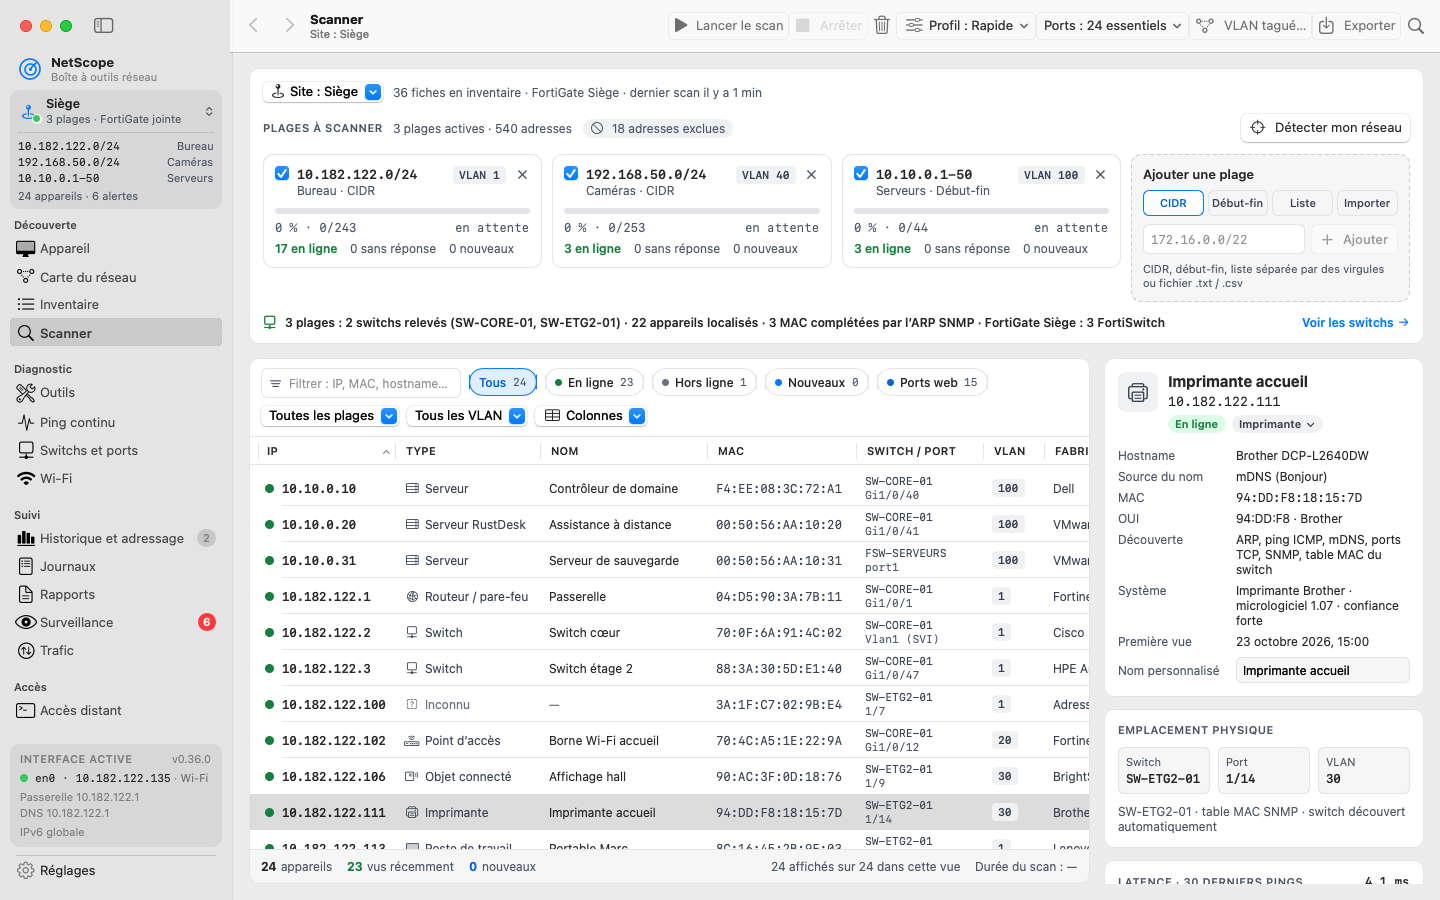
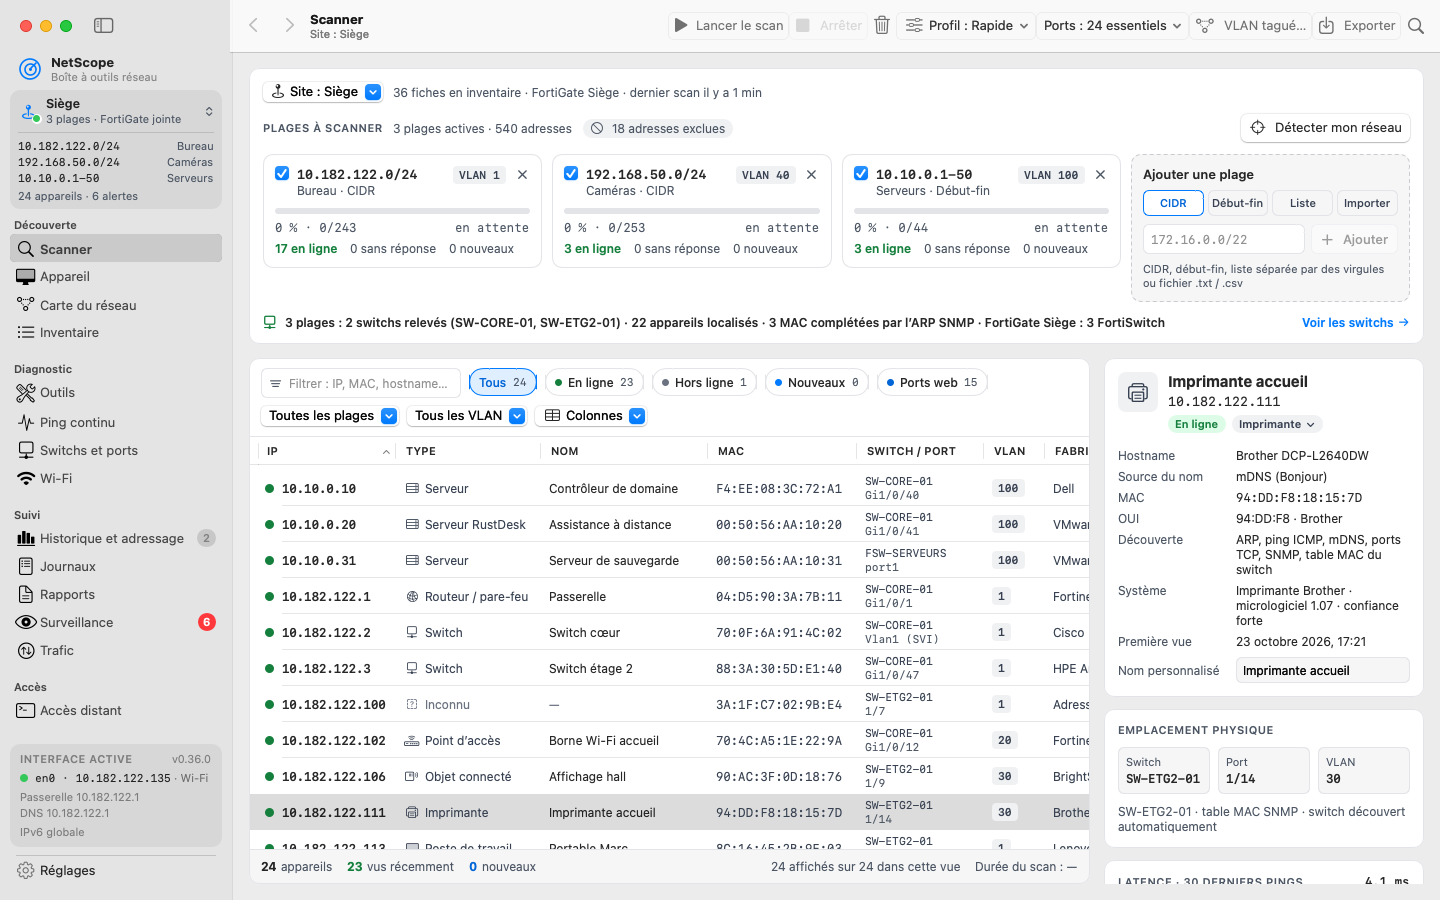
Version 0.36.1 : Scanner en tête de Découverte

Changed region(s): [[0.0, 0.2489, 0.1562, 0.4044]]

diff --git a/Sources/NetScope/Screen.swift b/Sources/NetScope/Screen.swift
@@ -126,8 +126,11 @@ enum Screen: String, CaseIterable, Identifiable, Codable {
             }
         }
 
-        /// Écrans de la section, en ordre alphabétique (demande de Dany, 5 novembre 2026) ; les
+        /// Écrans de la section, en ordre alphabétique (demande de Dany, 5 novembre 2026), sauf le
+        /// Scanner, écran principal, gardé en tête de Découverte (Dany, 6 novembre 2026) ; les
         /// sections gardent leur ordre et les raccourcis suivent l'écran, pas sa position.
-        var screens: [Screen] { Screen.allCases.filter { $0.group == self }.sortedFrench(by: \.title) }
+        var screens: [Screen] {
+            Screen.allCases.filter { $0.group == self }.sortedFrench(by: \.title, first: [Screen.scanner.title])
+        }
     }
 }

diff --git a/CHANGELOG.md b/CHANGELOG.md
@@ -1,5 +1,11 @@
 # Changements
 
+## 0.36.1 — 2026-11-06
+
+### Modifié
+- Barre latérale et menu Aller : le **Scanner** reprend la tête de la section Découverte ; les
+  autres écrans restent en ordre alphabétique.
+
 ## 0.36.0 — 2026-11-06
 
 Relevé Wi-Fi sur plan (note 94).
